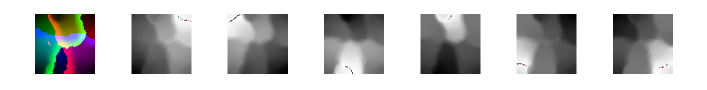
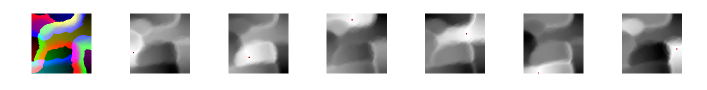
Finished ex_som_activation example

diff --git a/examples/ex_som_activation.py b/examples/ex_som_activation.py
@@ -17,6 +17,8 @@ import numpy as np
 import matplotlib.pyplot as plt
 import matplotlib.image as mpimg
 
+import cv2
+
 #It requires the pyERA library
 from pyERA.som import Som
 
@@ -26,29 +28,36 @@ def main():
     #Loading the pretrained SOM
     som_size = 512
     my_som = Som(matrix_size=som_size, input_size=3, low=0, high=1, round_values=False)
-    my_som.load("./examples/some_colours_512.npz")
+    my_som.load("./examples/some_colours_512_2.npz")
     print("")
 
     #Saving the image of the SOM weights
+    print("ORIGINAL IMAGE")
     img = np.rint(my_som.return_weights_matrix()*255)
     plt.axis("off")
     plt.imshow(img)
+    print("Saving in: ./original.png")
     plt.savefig("./original.png", dpi=None, facecolor='black')
 
+    #Variables
+    draw_range = 5 #The colour range of the re square
+    colour = 0.6 #The intensity of the byte in the array
+    img = np.zeros((som_size,som_size,3), 'uint8')
+
     #Saving the activation units for RED
-    som_input_vector = np.array([0.8, 0, 0]) #RED
+    print("")
+    som_input_vector = np.array([colour, 0, 0]) #RED
     print("INPUT RED: " + str(som_input_vector*255))
     #For each color an image of the differences between input/weights is generated.
-    #To have a normalised matrix of weights it is possible to use the function: return_normalized_distance_matrix
+    #To have a normalised matrix of weights it is possible to use the function: return_similarity_matrix
     #The weights are then returned in a normalized range [0,1] and multiplied times 255 to have valid pixels.
-    img = np.zeros((som_size,som_size,3))
-    img[:,:,0] = np.rint(my_som.return_normalized_distance_matrix(som_input_vector)*255)
-    img[:,:,1] = np.rint(my_som.return_normalized_distance_matrix(som_input_vector)*255)
-    img[:,:,2] = np.rint(my_som.return_normalized_distance_matrix(som_input_vector)*255)
+    som_similarity_matrix = my_som.return_similarity_matrix(som_input_vector) * 255
+    img[:,:,0] = som_similarity_matrix
+    img[:,:,1] = som_similarity_matrix
+    img[:,:,2] = som_similarity_matrix
     bmu_index = my_som.return_BMU_index(som_input_vector)
     #In the black and withe image a RED spot is drawn on the BMU.
-    draw_range = 5
-    img[bmu_index[0]-draw_range:bmu_index[0]+draw_range, bmu_index[1]-draw_range:bmu_index[1]+draw_range, 0] = 50
+    img[bmu_index[0]-draw_range:bmu_index[0]+draw_range, bmu_index[1]-draw_range:bmu_index[1]+draw_range, 0] = 200
     img[bmu_index[0]-draw_range:bmu_index[0]+draw_range, bmu_index[1]-draw_range:bmu_index[1]+draw_range, 1] = 0
     img[bmu_index[0]-draw_range:bmu_index[0]+draw_range, bmu_index[1]-draw_range:bmu_index[1]+draw_range, 2] = 0
     #Create a matplotlib graph and save the image
@@ -59,15 +68,14 @@ def main():
 
     #Saving the activation units for GREEN
     print("")
-    som_input_vector = np.array([0, 0.8, 0]) #GREEN
+    som_input_vector = np.array([0, colour, 0]) #GREEN
     print("INPUT GREEN: " + str(som_input_vector*255))
-    img = np.zeros((som_size,som_size,3))
-    max_value = np.amax(my_som.return_distance_matrix(som_input_vector))
-    img[:,:,0] = np.rint(my_som.return_normalized_distance_matrix(som_input_vector)*255)
-    img[:,:,1] = np.rint(my_som.return_normalized_distance_matrix(som_input_vector)*255)
-    img[:,:,2] = np.rint(my_som.return_normalized_distance_matrix(som_input_vector)*255)
+    som_similarity_matrix = my_som.return_similarity_matrix(som_input_vector) * 255
+    img[:,:,0] = som_similarity_matrix
+    img[:,:,1] = som_similarity_matrix
+    img[:,:,2] = som_similarity_matrix
     bmu_index = my_som.return_BMU_index(som_input_vector)
-    img[bmu_index[0]-draw_range:bmu_index[0]+draw_range, bmu_index[1]-draw_range:bmu_index[1]+draw_range, 0] = 50
+    img[bmu_index[0]-draw_range:bmu_index[0]+draw_range, bmu_index[1]-draw_range:bmu_index[1]+draw_range, 0] = 200
     img[bmu_index[0]-draw_range:bmu_index[0]+draw_range, bmu_index[1]-draw_range:bmu_index[1]+draw_range, 1] = 0
     img[bmu_index[0]-draw_range:bmu_index[0]+draw_range, bmu_index[1]-draw_range:bmu_index[1]+draw_range, 2] = 0
     plt.axis("off")
@@ -77,15 +85,14 @@ def main():
 
     #Saving the activation units for BLUE
     print("")
-    som_input_vector = np.array([0, 0, 0.8]) #BLUE
+    som_input_vector = np.array([0, 0, colour]) #BLUE
     print("INPUT BLUE: " + str(som_input_vector*255))
-    img = np.zeros((som_size,som_size,3))
-    max_value = np.amax(my_som.return_distance_matrix(som_input_vector))
-    img[:,:,0] = np.rint(my_som.return_normalized_distance_matrix(som_input_vector)*255)
-    img[:,:,1] = np.rint(my_som.return_normalized_distance_matrix(som_input_vector)*255)
-    img[:,:,2] = np.rint(my_som.return_normalized_distance_matrix(som_input_vector)*255)
+    som_similarity_matrix = my_som.return_similarity_matrix(som_input_vector) * 255
+    img[:,:,0] = som_similarity_matrix
+    img[:,:,1] = som_similarity_matrix
+    img[:,:,2] = som_similarity_matrix
     bmu_index = my_som.return_BMU_index(som_input_vector)
-    img[bmu_index[0]-draw_range:bmu_index[0]+draw_range, bmu_index[1]-draw_range:bmu_index[1]+draw_range, 0] = 50
+    img[bmu_index[0]-draw_range:bmu_index[0]+draw_range, bmu_index[1]-draw_range:bmu_index[1]+draw_range, 0] = 200
     img[bmu_index[0]-draw_range:bmu_index[0]+draw_range, bmu_index[1]-draw_range:bmu_index[1]+draw_range, 1] = 0
     img[bmu_index[0]-draw_range:bmu_index[0]+draw_range, bmu_index[1]-draw_range:bmu_index[1]+draw_range, 2] = 0
     plt.axis("off")
@@ -95,15 +102,14 @@ def main():
 
     #Saving the activation units for YELLOW
     print("")
-    som_input_vector = np.array([0.8,0.8, 0]) #YELLOW
+    som_input_vector = np.array([colour,colour, 0]) #YELLOW
     print("INPUT YELLOW: " + str(som_input_vector*255))
-    img = np.zeros((som_size,som_size,3))
-    max_value = np.amax(my_som.return_distance_matrix(som_input_vector))
-    img[:,:,0] = np.rint(my_som.return_normalized_distance_matrix(som_input_vector)*255)
-    img[:,:,1] = np.rint(my_som.return_normalized_distance_matrix(som_input_vector)*255)
-    img[:,:,2] = np.rint(my_som.return_normalized_distance_matrix(som_input_vector)*255)
+    som_similarity_matrix = my_som.return_similarity_matrix(som_input_vector) * 255
+    img[:,:,0] = som_similarity_matrix
+    img[:,:,1] = som_similarity_matrix
+    img[:,:,2] = som_similarity_matrix
     bmu_index = my_som.return_BMU_index(som_input_vector)
-    img[bmu_index[0]-draw_range:bmu_index[0]+draw_range, bmu_index[1]-draw_range:bmu_index[1]+draw_range, 0] = 50
+    img[bmu_index[0]-draw_range:bmu_index[0]+draw_range, bmu_index[1]-draw_range:bmu_index[1]+draw_range, 0] = 200
     img[bmu_index[0]-draw_range:bmu_index[0]+draw_range, bmu_index[1]-draw_range:bmu_index[1]+draw_range, 1] = 0
     img[bmu_index[0]-draw_range:bmu_index[0]+draw_range, bmu_index[1]-draw_range:bmu_index[1]+draw_range, 2] = 0
     plt.axis("off")
@@ -113,15 +119,14 @@ def main():
 
     #Saving the activation units for LIGHT-BLUE
     print("")
-    som_input_vector = np.array([0, 0.8, 0.8]) #LIGHT-BLUE
+    som_input_vector = np.array([0, colour, colour]) #LIGHT-BLUE
     print("INPUT LIGHT-BLUE: " + str(som_input_vector*255))
-    img = np.zeros((som_size,som_size,3))
-    max_value = np.amax(my_som.return_distance_matrix(som_input_vector))
-    img[:,:,0] = np.rint(my_som.return_normalized_distance_matrix(som_input_vector)*255)
-    img[:,:,1] = np.rint(my_som.return_normalized_distance_matrix(som_input_vector)*255)
-    img[:,:,2] = np.rint(my_som.return_normalized_distance_matrix(som_input_vector)*255)
+    som_similarity_matrix = my_som.return_similarity_matrix(som_input_vector) * 255
+    img[:,:,0] = som_similarity_matrix
+    img[:,:,1] = som_similarity_matrix
+    img[:,:,2] = som_similarity_matrix
     bmu_index = my_som.return_BMU_index(som_input_vector)
-    img[bmu_index[0]-draw_range:bmu_index[0]+draw_range, bmu_index[1]-draw_range:bmu_index[1]+draw_range, 0] = 50
+    img[bmu_index[0]-draw_range:bmu_index[0]+draw_range, bmu_index[1]-draw_range:bmu_index[1]+draw_range, 0] = 200
     img[bmu_index[0]-draw_range:bmu_index[0]+draw_range, bmu_index[1]-draw_range:bmu_index[1]+draw_range, 1] = 0
     img[bmu_index[0]-draw_range:bmu_index[0]+draw_range, bmu_index[1]-draw_range:bmu_index[1]+draw_range, 2] = 0
     plt.axis("off")
@@ -131,15 +136,14 @@ def main():
 
     #Saving the activation units for PURPLE
     print("")
-    som_input_vector = np.array([0.8, 0, 0.8]) #PURPLE
+    som_input_vector = np.array([colour, 0, colour]) #PURPLE
     print("INPUT PURPLE: " + str(som_input_vector*255))
-    img = np.zeros((som_size,som_size,3))
-    max_value = np.amax(my_som.return_distance_matrix(som_input_vector))
-    img[:,:,0] = np.rint(my_som.return_normalized_distance_matrix(som_input_vector)*255)
-    img[:,:,1] = np.rint(my_som.return_normalized_distance_matrix(som_input_vector)*255)
-    img[:,:,2] = np.rint(my_som.return_normalized_distance_matrix(som_input_vector)*255)
+    som_similarity_matrix = my_som.return_similarity_matrix(som_input_vector) * 255
+    img[:,:,0] = som_similarity_matrix
+    img[:,:,1] = som_similarity_matrix
+    img[:,:,2] = som_similarity_matrix
     bmu_index = my_som.return_BMU_index(som_input_vector)
-    img[bmu_index[0]-draw_range:bmu_index[0]+draw_range, bmu_index[1]-draw_range:bmu_index[1]+draw_range, 0] = 50
+    img[bmu_index[0]-draw_range:bmu_index[0]+draw_range, bmu_index[1]-draw_range:bmu_index[1]+draw_range, 0] = 200
     img[bmu_index[0]-draw_range:bmu_index[0]+draw_range, bmu_index[1]-draw_range:bmu_index[1]+draw_range, 1] = 0
     img[bmu_index[0]-draw_range:bmu_index[0]+draw_range, bmu_index[1]-draw_range:bmu_index[1]+draw_range, 2] = 0
     plt.axis("off")

diff --git a/README.md b/README.md
@@ -64,7 +64,7 @@ Examples
 <img src="examples/ex_som_colours.png">
 </p>
 
-2. How to estimate the activation values of a pre-trained Self-Organizing Map [[code]](examples/ex_som_activation.py)
+3. How to visualize the Euclidean distance between an input vector and the weights of a Self-Organizing Map [[code]](examples/ex_som_activation.py) [[video]](https://www.youtube.com/watch?v=HYGxx-clLRo)
 
 <p align="center">
 <img src="examples/ex_som_activation.png">
@@ -75,4 +75,6 @@ References
 -----------
 
 Morse, A. F., De Greeff, J., Belpeame, T., & Cangelosi, A. (2010). Epigenetic robotics architecture (ERA). IEEE Transactions on Autonomous Mental Development, 2(4), 325-339. [[pdf]](doc/era_epigenetic_robotics_architecture_Morse_et_al_2010.pdf)
+
+
 
